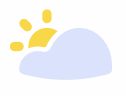
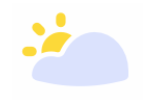
inline input elements

Changed region(s): [[0.0714, 0.0938, 0.881, 0.7812], [0.2381, 0.75, 0.881, 0.875], [0.881, 0.6562, 0.9048, 0.75]]

diff --git a/src/components/WeatherCard.tsx b/src/components/WeatherCard.tsx
@@ -18,31 +18,41 @@ const WeatherCard = () => {
     <div className="container">
       <div className="inputDiv">
         <div className="inlineDiv">
-          <img
-            src={require(".././images/sun-cloud.png")}
-            alt="weather img"
-          ></img>
-          <Select
-            className="countrieSelect"
-            defaultValue={countries.find((country) => {
-              return country.name.common === "Netherlands";
-            })}
-            label="Countrie"
-            //onChange={}
-          >
-            {countries.length > 0 ? (
-              <ul>
-                {countries.map((country, index) => (
-                  <MenuItem key={index}>
-                    <div className="flag">{country.flag}</div>
-                    {country.name.common}
-                  </MenuItem>
-                ))}
-              </ul>
-            ) : (
-              <MenuItem></MenuItem>
-            )}
-          </Select>
+          <div className="imgDiv">
+            <img
+              className="cloudImg"
+              src={require(".././images/sun-cloud.png")}
+              alt="weather img"
+            ></img>
+          </div>
+          <div className="selectDiv">
+            <Select
+              className="countrieSelect"
+              defaultValue={countries.find((country) => {
+                return country.name.common === "Netherlands";
+              })}
+              label="Countrie"
+              //onChange={}
+            >
+              {countries.length > 0 ? (
+                <ul>
+                  {countries.map((country, index) => (
+                    <MenuItem key={index}>
+                      <div className="flag">{country.flag}</div>
+                      {country.name.common}
+                    </MenuItem>
+                  ))}
+                </ul>
+              ) : (
+                <MenuItem></MenuItem>
+              )}
+            </Select>
+            <input
+              className="inputCity"
+              type="text"
+              placeholder="Please enter your location..."
+            />
+          </div>
         </div>
       </div>
     </div>

diff --git a/src/index.css b/src/index.css
@@ -1,7 +1,6 @@
 body {
   width: 100%;
   height: 100%;
-  display: block;
   line-height: 154%;
   margin: 0;
   background: linear-gradient(
@@ -24,14 +23,16 @@ body {
 .inputDiv {
   background: white;
   border-radius: 25px;
-  box-shadow: 1px 1px 1px 1px lightgray;
+  box-shadow: 2px 2x 2px 2px lightgray;
   padding: 30px;
   width: 600px;
   height: auto;
 }
 
-.inlineDiv img {
-  height: 50px;
+.inlineDiv {
+  height: 40px;
+  display: flex;
+  align-items: center;
 }
 
 .countrieSelect {
@@ -41,10 +42,32 @@ body {
   height: 50px;
   width: 80px;
   border-radius: 10px;
-  box-shadow: 1px 1px 1px 1px lightgray;
 }
 
 .flag {
   margin-right: 10px;
-  display: flexbox;
+}
+
+.inputCity {
+  margin-left: 20px;
+  border-radius: 10px;
+  height: 50px;
+  width: 420px;
+  font-size: 18px;
+  padding: 12px 20px;
+  border: 1px solid lightgray;
+}
+
+.imgDiv {
+  height: fit-content;
+}
+
+.selectDiv {
+  margin-left: 10px;
+  width: auto;
+  display: contents;
+}
+
+.cloudImg {
+  height: 50px;
 }
